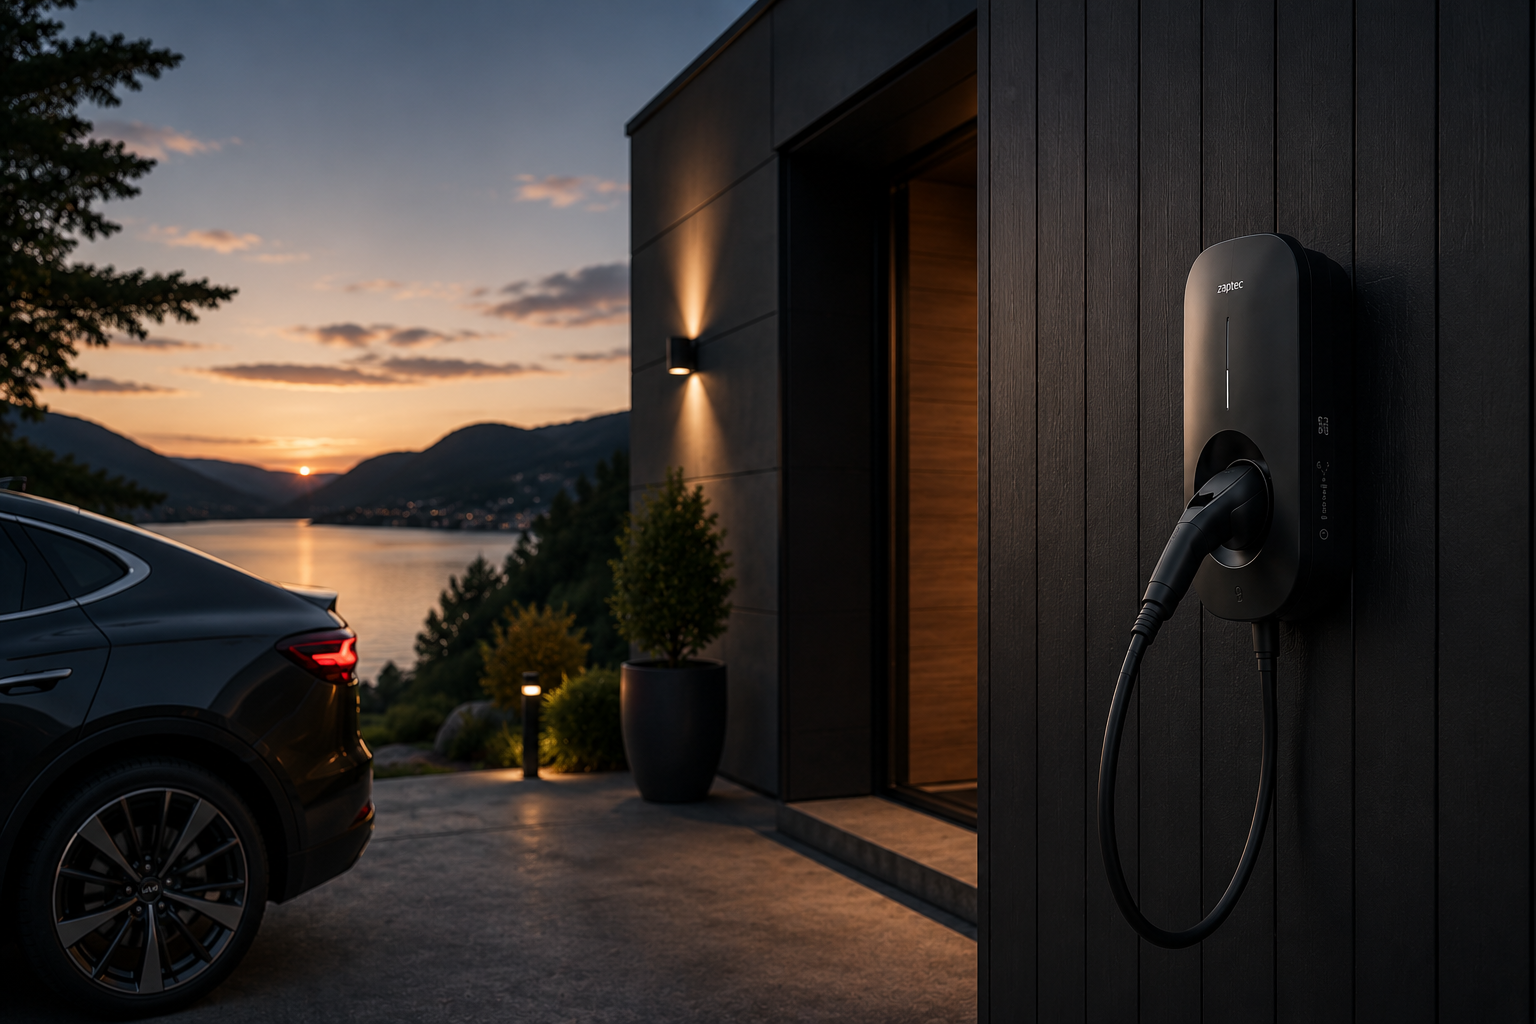
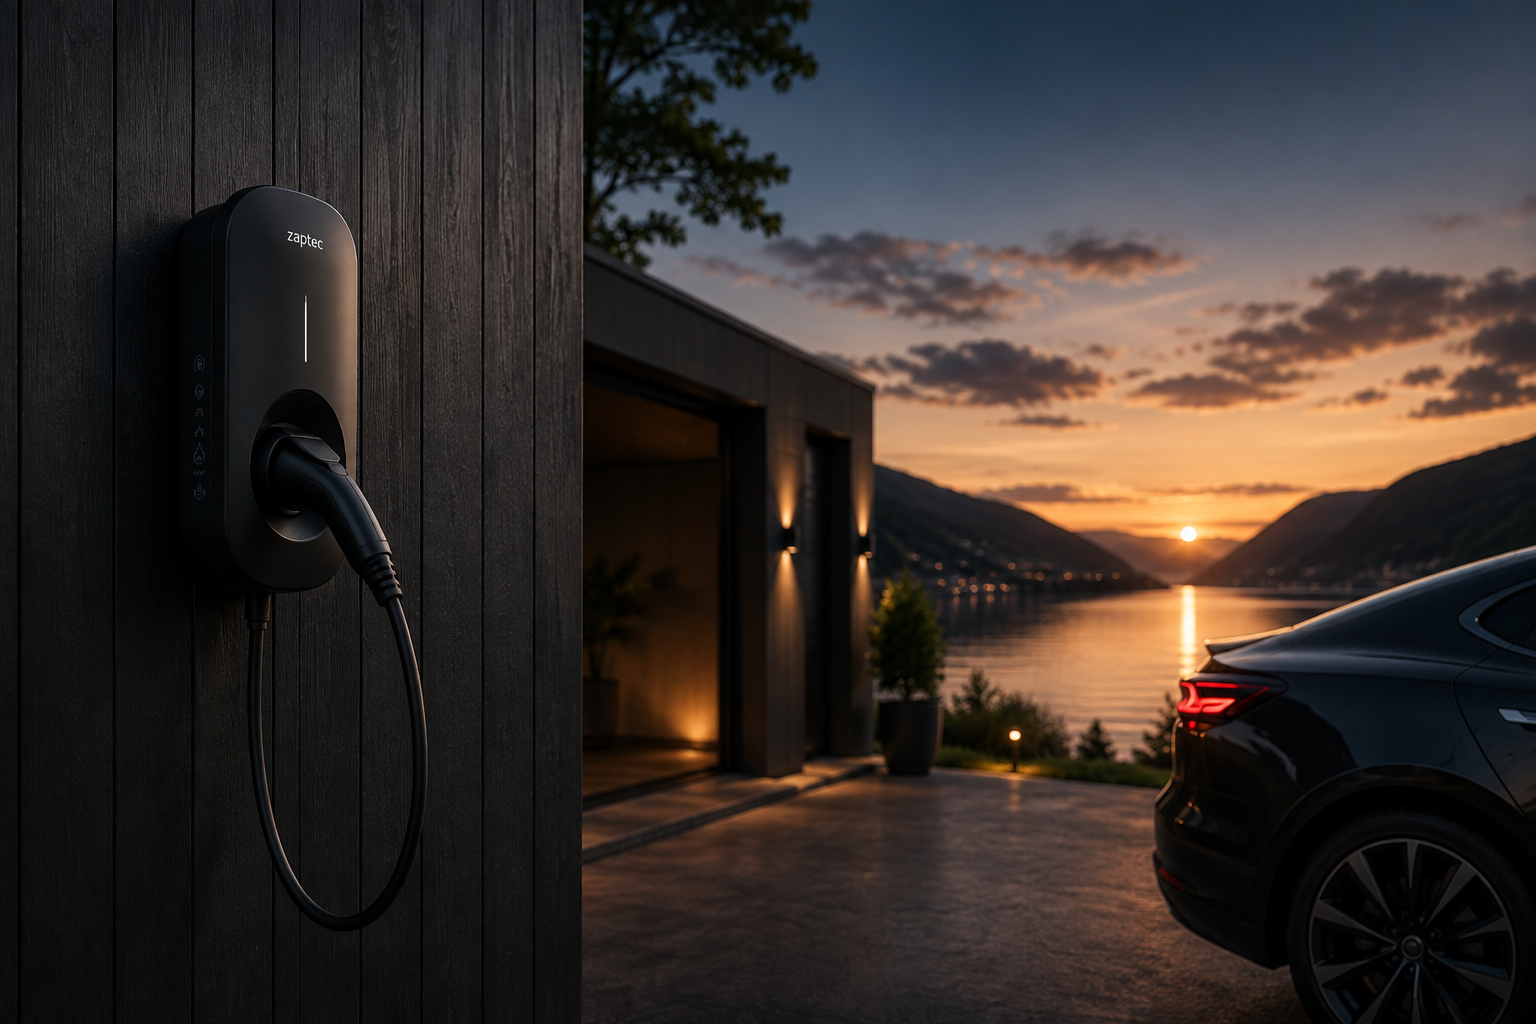
elbillader-pris: nytt uzoomet hero-bilde, hero-tekst inn fra kanten og litt ned
Byttet til kundens nyeste hero-bilde uten noen beskjæring/zoom. Hero-teksten
(overskrift, ingress, sjekkliste) flyttet litt innover fra venstre kant og
litt ned, med mer luft mellom sjekkliste-punktene.

diff --git a/app/globals.css b/app/globals.css
@@ -1359,13 +1359,13 @@ footer.foot { background: var(--bg-dark); color: white; padding: 64px 0 28px; }
 .lp3-hero-bg-img { object-fit: cover; }
 .lp3-hero-bg-scrim { position: absolute; inset: 0; background: linear-gradient(90deg, rgba(10,10,10,.85) 0%, rgba(10,10,10,.6) 28%, rgba(10,10,10,.15) 48%, rgba(10,10,10,0) 62%, rgba(10,10,10,.2) 100%); }
 .lp3-hero-grid { position: relative; z-index: 1; display: grid; grid-template-columns: 1fr 470px; gap: 56px; padding: 172px 0 0; align-items: start; }
-.lp3-hero-copy { padding-top: 0; }
+.lp3-hero-copy { padding-top: 48px; padding-left: clamp(0px, 4vw, 56px); }
 
 .lp3-hero h1 { font-size: clamp(34px, 4.4vw, 50px); margin: 0 0 20px; max-width: 14ch; }
 .lp3-page h1.lp3-hero-h1-dark { color: #fff; }
 .lp3-hero-lede { font-size: 17px; line-height: 1.65; color: #DDDDDD; max-width: 40ch; margin: 0 0 34px; }
 .lp3-hero-lede-dark { color: #DDDDDD; }
-.lp3-check-list { list-style: none; margin: 0; padding: 0; display: flex; flex-direction: column; gap: 16px; }
+.lp3-check-list { list-style: none; margin: 0; padding: 0; display: flex; flex-direction: column; gap: 22px; }
 .lp3-check-list li { display: flex; align-items: center; gap: 13px; font-size: 16px; font-weight: 500; color: var(--lp3-black); }
 .lp3-check-list li svg { color: var(--lp3-red); flex-shrink: 0; }
 .lp3-check-list-dark li { color: #F2F2F2; }

diff --git a/app/elbillader-pris/page.tsx b/app/elbillader-pris/page.tsx
@@ -38,7 +38,7 @@ export default function ElbilladerPrisPage() {
         lede="Send bilde av sikringsskapet, så vurderer vi anlegget ditt og gir deg fast pris før arbeidet starter."
         bgImage="/hero-elbillader-pris.png"
         bgAlt="Elbillader montert på husvegg i skumring"
-        bgPosition="70% 40%"
+        bgPosition="45% 22%"
         checklist={['Skriftlig pris før oppstart', 'Tillegg avklares på forhånd', 'Samsvarserklæring inkludert', 'Dokumentasjon i Boligmappa']}
       >
         <div className="lp3-form-head">
